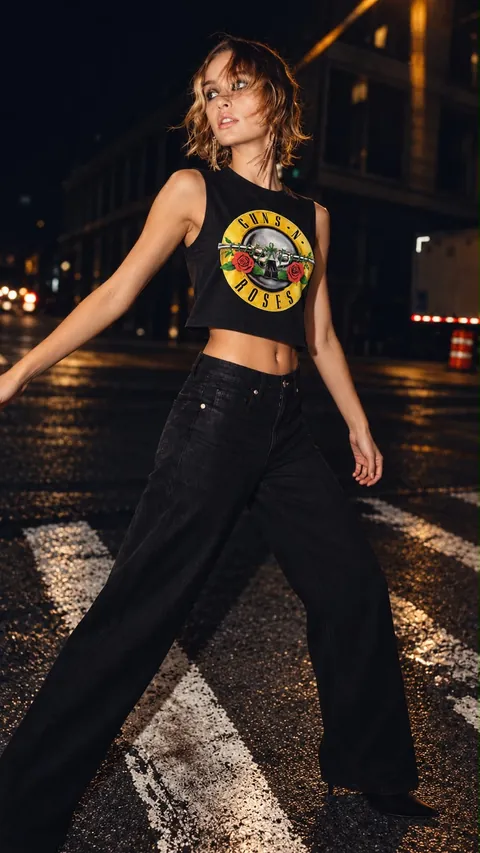
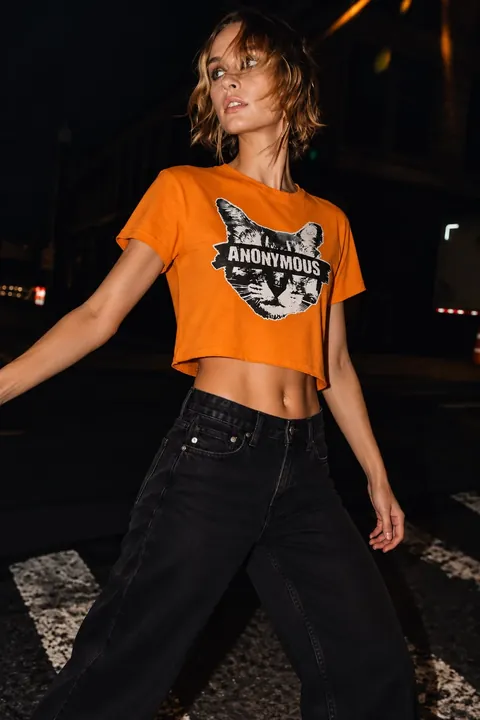
tuenti-web: la portada pasa a la camiseta naranja ANONYMOUS (reemplaza la de Guns N' Roses; imagen generada con IA)
Solo portada: index.html, portada.css e img/portada/. Pedido y autorizado por Jose (15/10/2026). La versión anterior queda en el historial (c3ad312).

Claude-Session: https://claude.ai/code/session_01TPQqqMeGBCSTWUkH3aZnQU

diff --git a/tuenti-web/index.html b/tuenti-web/index.html
@@ -25,7 +25,7 @@
 <link rel="stylesheet" href="rediseno.css">
 <!-- DEMO portada (15/10/2026) -->
 <link rel="stylesheet" href="portada.css">
-<link rel="preload" as="image" type="image/webp" imagesrcset="img/portada/portada-480.webp 480w, img/portada/portada-720.webp 720w, img/portada/portada-900.webp 900w" imagesizes="(min-width:900px) 66vw, 100vw" fetchpriority="high">
+<link rel="preload" as="image" type="image/webp" imagesrcset="img/portada/portada-480.webp 480w, img/portada/portada-720.webp 720w, img/portada/portada-1024.webp 1024w" imagesizes="(min-width:900px) 66vw, 100vw" fetchpriority="high">
 
 <style>
 /* Tematización del módulo de tienda con los tokens de TUENTI. */
@@ -74,8 +74,8 @@
   <!-- 3 · héroe -->
   <header class="hero" id="top">
     <picture class="portada">
-      <source type="image/webp" srcset="img/portada/portada-480.webp 480w, img/portada/portada-720.webp 720w, img/portada/portada-900.webp 900w" sizes="(min-width:900px) 66vw, 100vw">
-      <img src="img/portada/portada-900.jpg" width="900" height="1600" alt="Modelo caminando de noche con camiseta negra de Guns N' Roses" fetchpriority="high" decoding="async">
+      <source type="image/webp" srcset="img/portada/portada-480.webp 480w, img/portada/portada-720.webp 720w, img/portada/portada-1024.webp 1024w" sizes="(min-width:900px) 66vw, 100vw">
+      <img src="img/portada/portada-1024.jpg" width="1024" height="1536" alt="Modelo caminando de noche con camiseta naranja ANONYMOUS" fetchpriority="high" decoding="async">
     </picture>
     <div class="ds-wrap hero-in">
       <div class="hero-txt">

diff --git a/tuenti-web/portada.css b/tuenti-web/portada.css
@@ -33,4 +33,5 @@ body.ds .hero-sello{position:absolute;right:1rem;top:1rem;bottom:auto;max-width:
   body.ds .hero-btns{margin-top:1rem;gap:.5rem}
   body.ds .hero .ds-btn{min-height:48px}
   body.ds .hero-in{padding-bottom:1.4rem}
+  body.ds .hero::before{background:linear-gradient(to top,rgba(10,9,8,.95) 0%,rgba(10,9,8,.9) 40%,rgba(10,9,8,.6) 58%,rgba(10,9,8,0) 76%)}
 }
